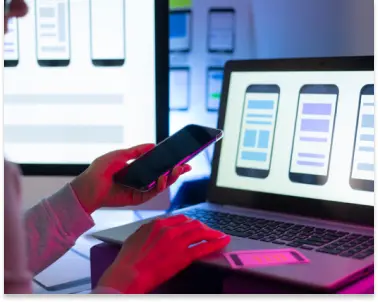
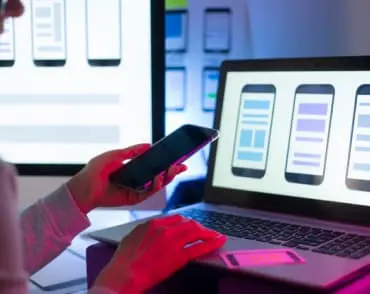
добавляет webp images в секции work

diff --git a/index.html b/index.html
@@ -121,8 +121,8 @@
                
                 <li class="work-box__item">
                      <picture>
-                         <source  srcset="./images/work/box1@1x.webp 1x, ./images/work/box1@2x.webp 2x" type="images/webp">
-                         <source srcset="./images/work/box1@1x.jpg 1x, ./images/work/box1@2x.jpg 2x">
+                         <source  srcset="./images/work/box1@1x.webp 1x, ./images/work/box1@2x.webp 2x" type="image/webp">
+                         <source srcset="./images/work/box1@1x.jpg 1x, ./images/work/box1@2x.jpg 2x" type="image/jpeg">
                         <img src="./images/work/box1@1x.jpg" alt="Десктопные приложения" width="370">
                      </picture>
                     <!-- <img src="./images/work/box1@1x.jpg" alt="Десктопные приложения" width="370"> -->
@@ -132,8 +132,8 @@
                 </li>
                 <li class="work-box__item"> 
                     <picture>
-                        <source srcset="./images/work/box1@1x.webp 1x, ./images/work/box1@2x.webp 2x" type="images/webp">
-                        <source srcset="./images/work/box2@1x.jpg 1x, ./images/work/box2@2x.jpg 2x">
+                        <source srcset="./images/work/box2@1x.webp 1x, ./images/work/box2@2x.webp 2x" type="image/webp">
+                        <source srcset="./images/work/box2@1x.jpg 1x, ./images/work/box2@2x.jpg 2x" type="image/jpeg">
                         <img src="./images/work/box2@1x.jpg" alt="Мобильные приложения" width="370">
                     </picture>
                     <!-- <img src="./images/work/box-2.jpg" alt="Мобильные приложения" width="370"> -->
@@ -142,8 +142,8 @@
                 </li>
                 <li class="work-box__item">
                     <picture>
-                        <source srcset="./images/work/box3@1x.webp 1x, ./images/work/box3@2x.webp 2x" type="images/webp">
-                        <source srcset="./images/work/box3@1x.jpg 1x, ./images/work/box3@2x.jpg 2x">
+                        <source srcset="./images/work/box3@1x.webp 1x, ./images/work/box3@2x.webp 2x" type="image/webp">
+                        <source srcset="./images/work/box3@1x.jpg 1x, ./images/work/box3@2x.jpg 2x" type="image/jpeg">
                         <img src="./images/work/box3@1x.jpg" alt="Дизайнерские решения" width="370">
                     </picture>
                     <!-- <img src="./images/work/box-3.jpg" alt="Дизайнерские решения" width="370"> -->
